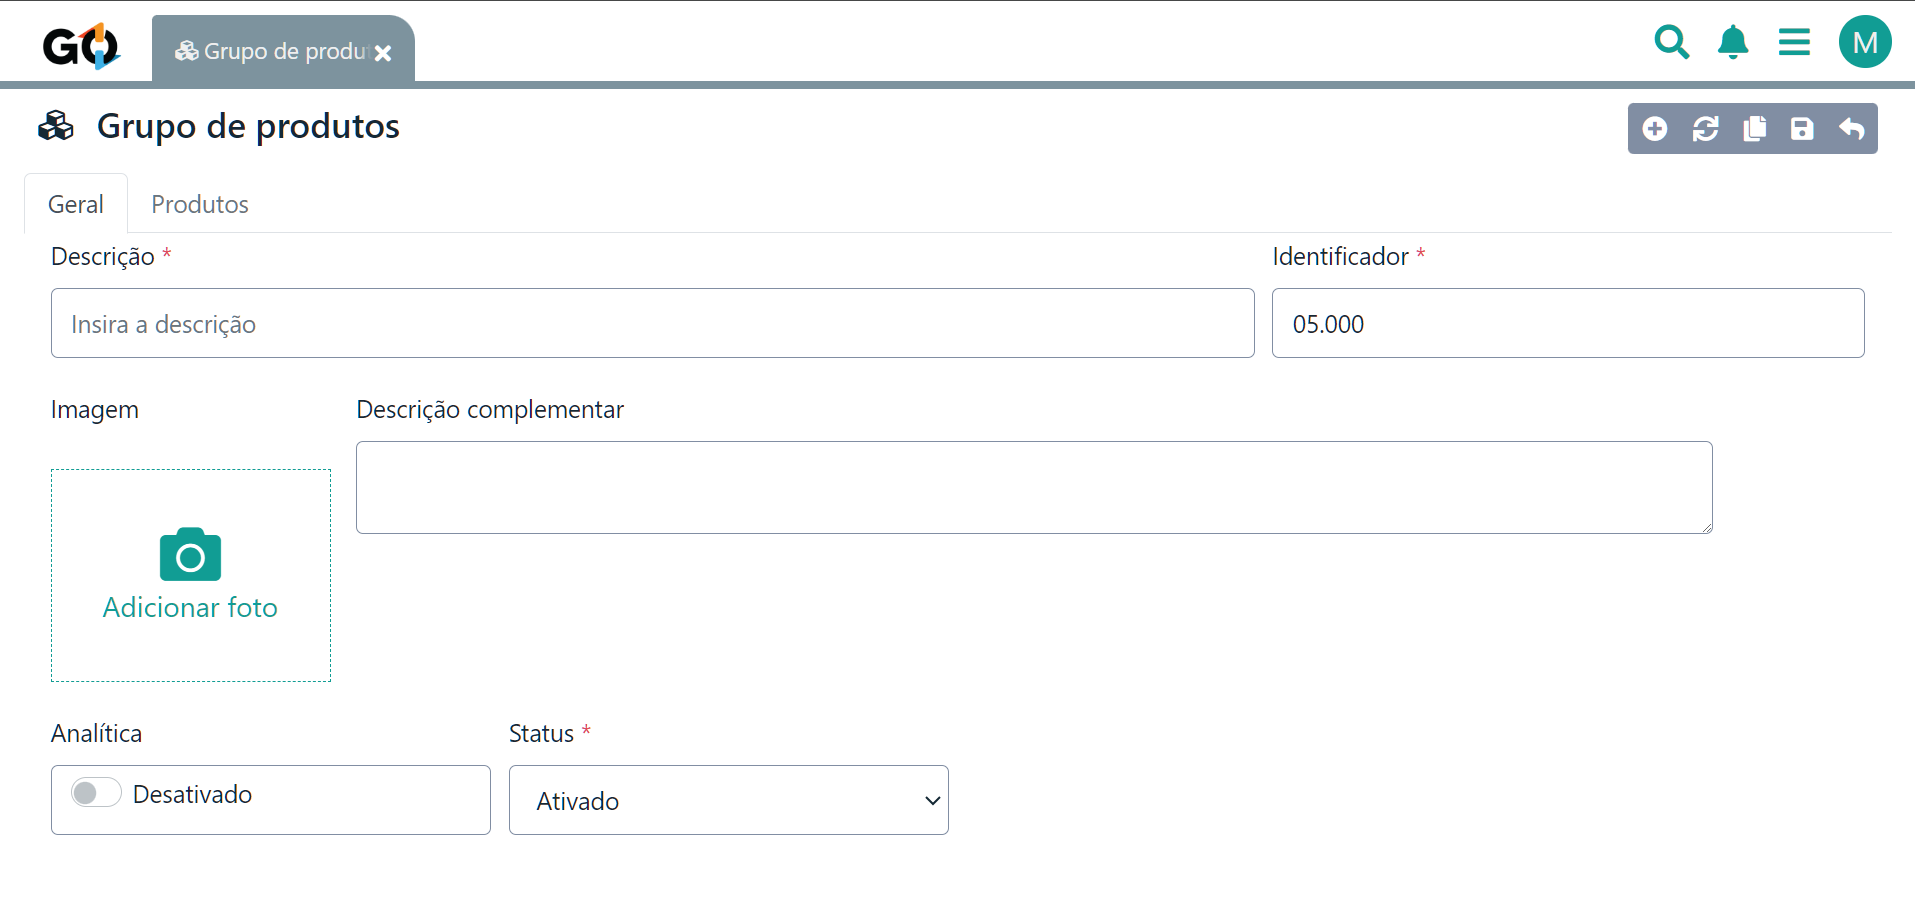
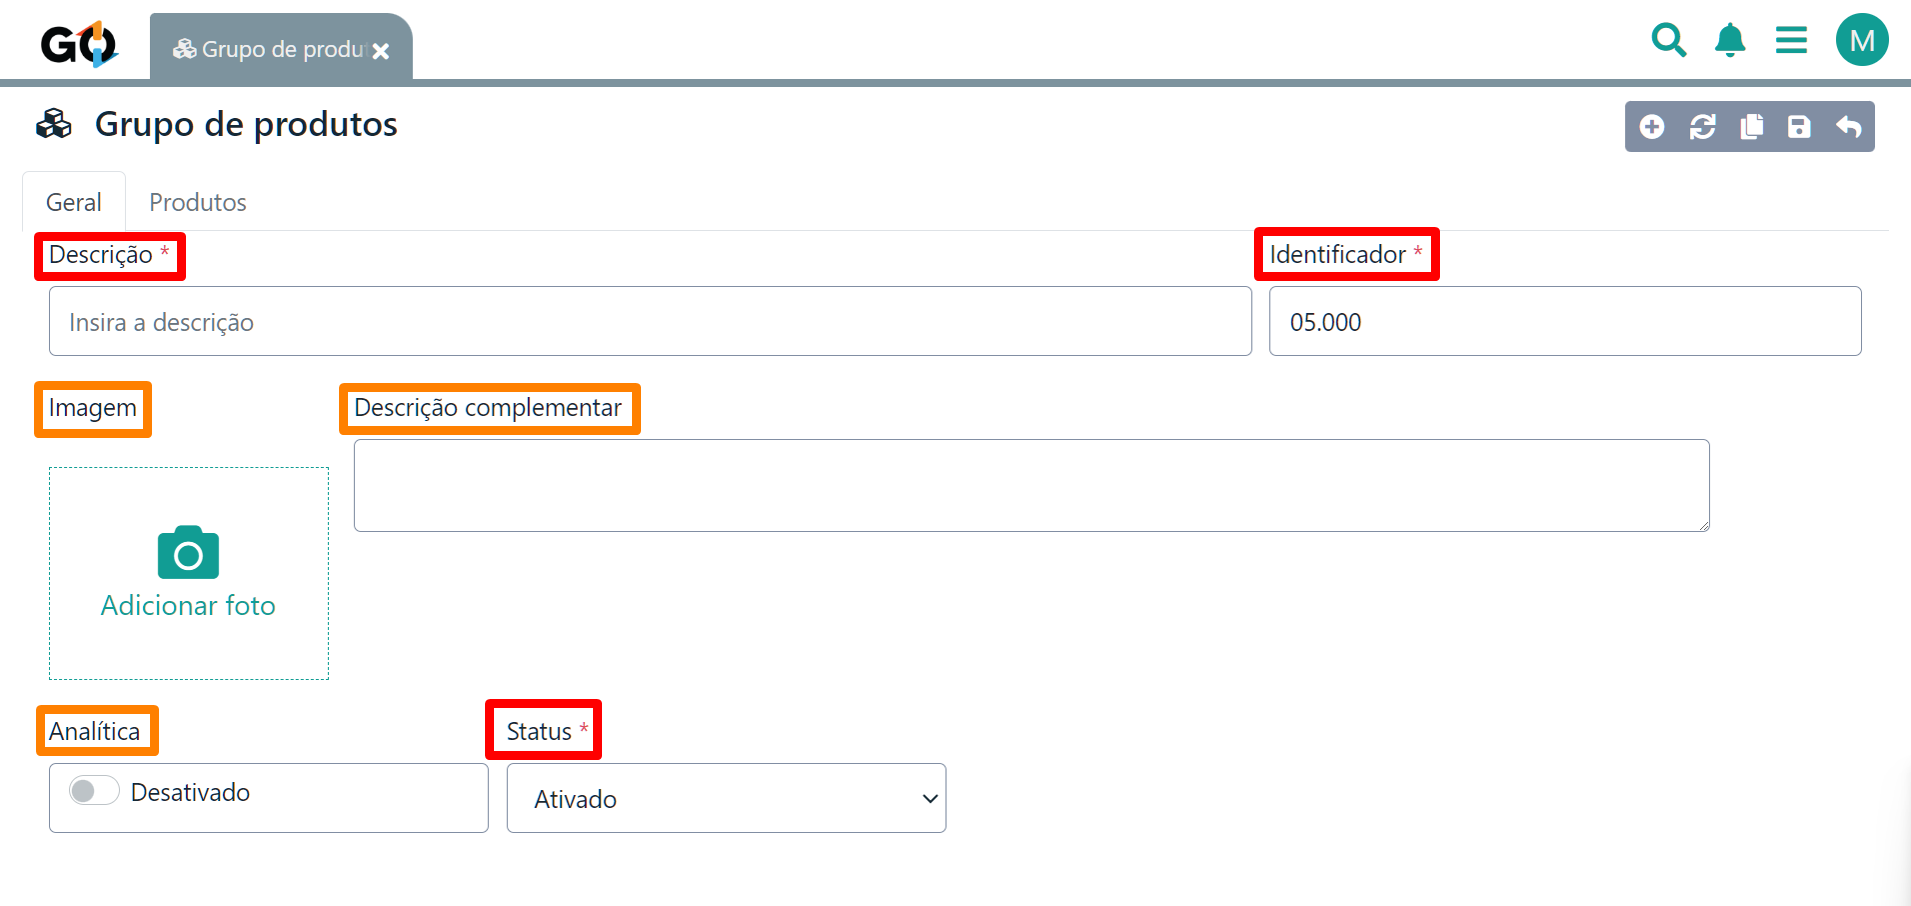
Aba categoria de produto - Informações sobre hierarquia e explicação sobre cada campo de preenchimento

diff --git a/erp-v2/funcionalidades/produtos_servicos/categoria_produto.md b/erp-v2/funcionalidades/produtos_servicos/categoria_produto.md
@@ -12,8 +12,6 @@ As categorias de produtos são uma forma de classificar e organizar os produtos 
 
 ![](/erp-v2/assets/funcionalidades/categoria_produto/aba_categoria_produto.gif)
 
-<br>
-
 Nesta aba tem um menu ao lado direito da tela com as seguintes funções:
 
 - <img src="/erp-v2/assets/icon_exibir.png" alt="" data-size="line"> Mostrar/Esconder informações;
@@ -23,8 +21,6 @@ Nesta aba tem um menu ao lado direito da tela com as seguintes funções:
 - <img src="/erp-v2/assets/icon_add.png" alt="" data-size="line"> Adicionar Categoria.
 
 ![](/erp-v2/assets/funcionalidades/categoria_produto/aba_categoria_produto_menu.png)
-
-<br>
 
 {% hint style="warning" %}
 **Mouse:** Caso queira informações sobre como utilizar as funções do botão direito do mouse [**`clique aqui`**](/erp-v2/primeiro_acesso/atalhos_internos#menu-botao-direito-do-mouse) para acessar a explicação.
@@ -36,13 +32,9 @@ No menu ao lado direito da tela, tem o botão <img src="/erp-v2/assets/icon_add.
 
 ![](/erp-v2/assets/funcionalidades/categoria_produto/aba_categoria_produto_add.png)
 
-<br>
-
-Ao clicar neste botão, você será levado para esta página para fazer o direcionamento do produto ao estoque:
+Ao clicar neste botão, você será levado para esta página, observe que os itens marcados com asterisco vermelho são itens obrigatórios:
 
 ![](/erp-v2/assets/funcionalidades/categoria_produto/aba_categoria_produto_add_inicio.png)
-
-<br>
 
 Ao lado direito da tela, você pode ver um pequeno menu na cor cinza. Vejamos abaixo para entender melhor cada opção:
 
@@ -53,19 +45,29 @@ Ao lado direito da tela, você pode ver um pequeno menu na cor cinza. Vejamos ab
 
 ![](/erp-v2/assets/funcionalidades/categoria_produto/aba_categoria_produto_add_menu.png)
 
-<br>
+No campo de **Descrição** você vai colocar o que melhor identifica esta categoria de produto que você está criando. Agora no campo **Identificador**, você pode usar números, e seguir a mesma sequência da **aba grupo de produtos**.
 
-Olhando de modo geral, por padrão, quando você for criar uma categoria de produto, é exigido identificador e status, para ser salvo.
+![](/erp-v2/assets/funcionalidades/grupo_produto/aba_categoria_produto_add_categoria_campos_descricao_identificador.png)
 
-- **Descrição** (Defina o que será a categoria que está criando);
-- **Identificador** (Número para buscar mais rápido a categoria);
-- **Analítica** (Sendo mais específica ou não);
-- **Status** (Ativado ou desativado);
-- **Código** (Identificação da categoria).
+### Campo analítica
 
-![](/erp-v2/assets/funcionalidades/categoria_produto/aba_categoria_produto_add_produto_itens.png)
+Em específico no campo **Analítica**, caso deixe ele em ativo, a categoria criada deixa de possuir uma hierarquia. O uso da hierarquia é interessante para melhorar a identificação e separação das catergorias dos itens novos que você for adicionar.
 
-<br>
+Para melhor exemplo, vamos preencher o campo **Identificador** com a sequencia padrão usada em nosso sistema, neste caso será *01.000*.
+
+![](/erp-v2/assets/funcionalidades/grupo_produto/aba_categoria_produto_add_categoria_campo_analitica_passo_1.png)
+
+Agora vamos adicionar uma nova categoria de exemplo, e ela será depedente desta primeira que criamos, pois utilizamos o identificador *01.* no começo. 😁👍 
+
+Veja o exemplo abaixo.
+
+![](/erp-v2/assets/funcionalidades/grupo_produto/aba_categoria_produto_add_categoria_campo_analitica_passo_2.gif)
+
+### Campos status e código
+
+Agora os campos de **Status** e **Código**. No campo de **Status**, lembrando que é um item obrigatório, ele define se este grupo estará disponível para uso ou não. O campo de código pode ser utilizando para controle interno, podendo utilizar números e letras.
+
+![](/erp-v2/assets/funcionalidades/grupo_produto/aba_categoria_produto_add_categoria_campos_descricao_status.png)
 
 ## Salvando categoria de produto
 
